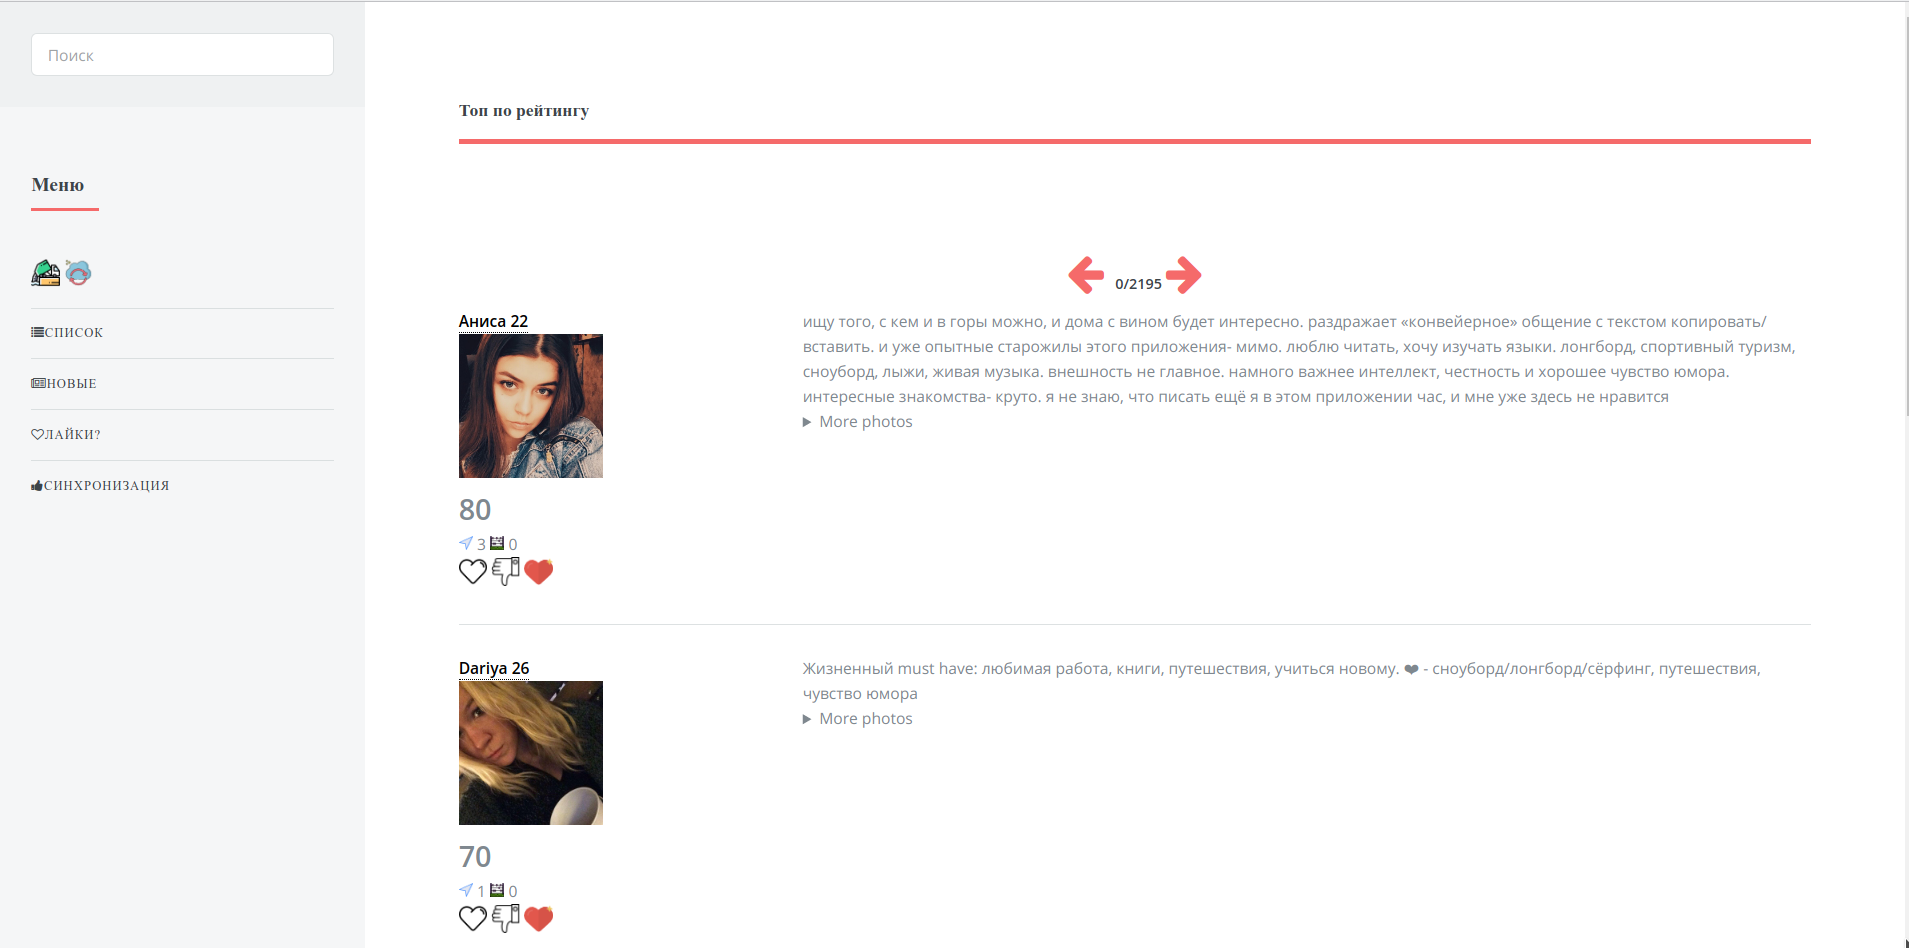
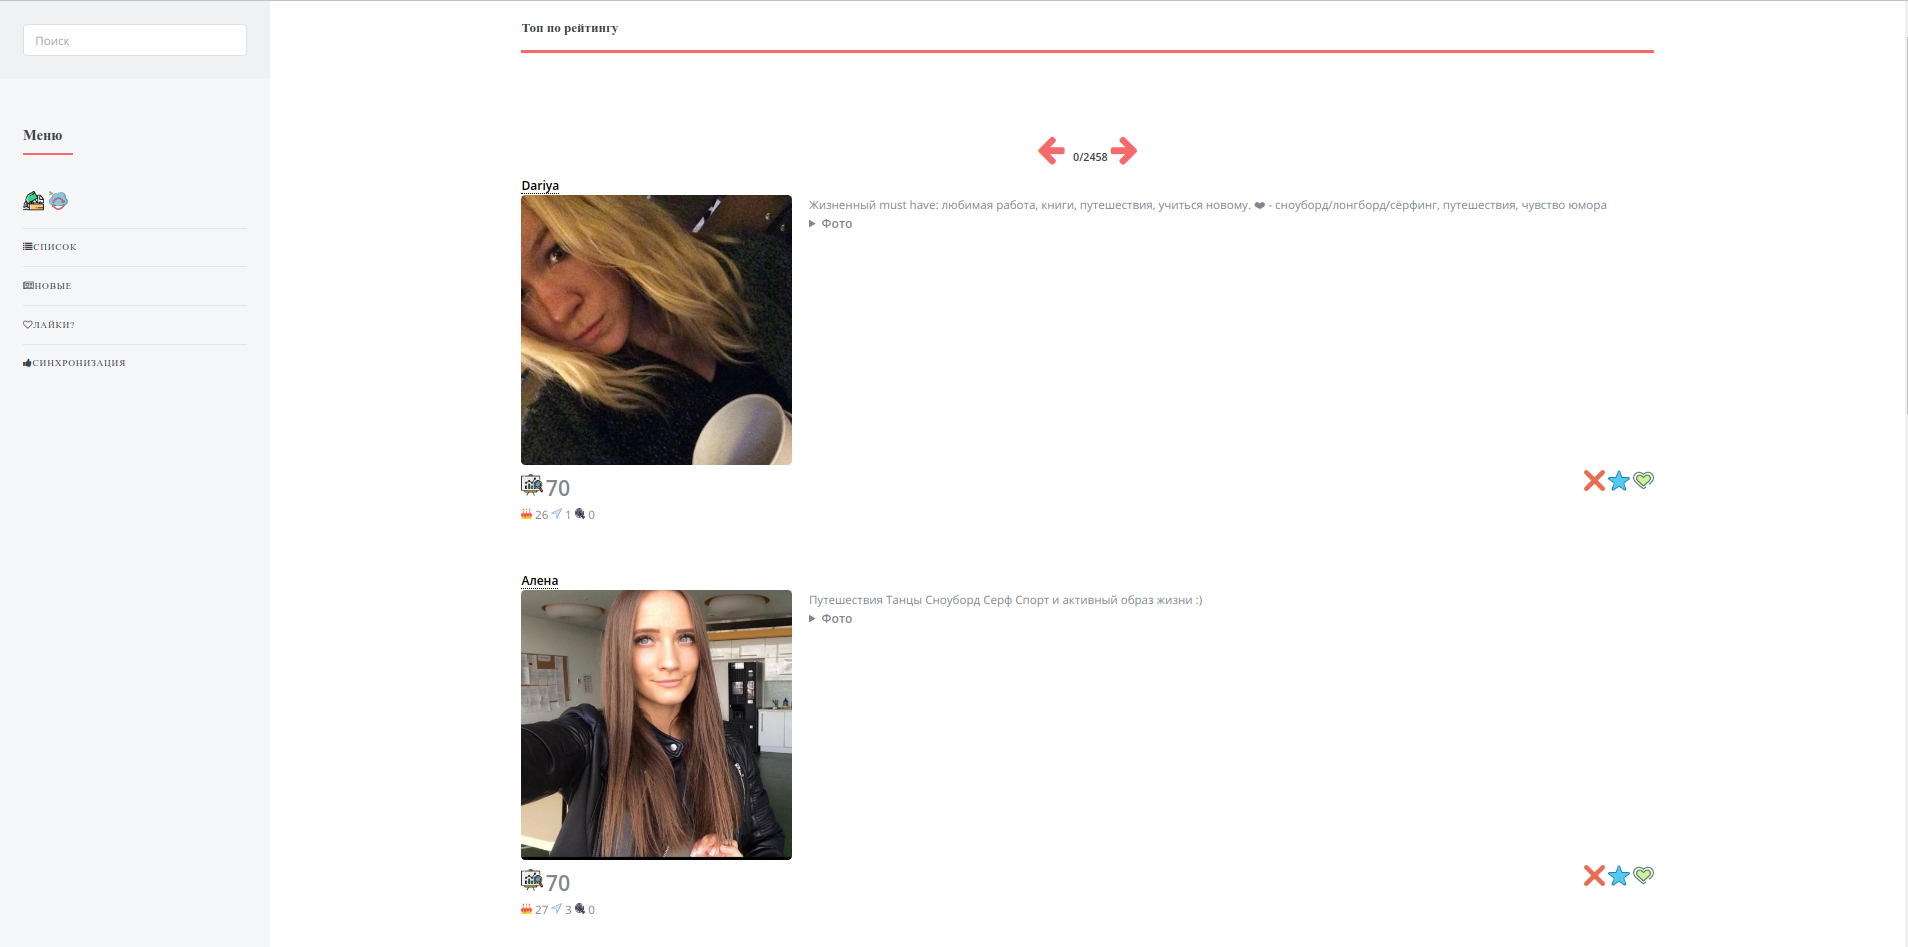
description

diff --git a/src/main/resources/templates/fragments/userlist.html b/src/main/resources/templates/fragments/userlist.html
@@ -41,85 +41,90 @@
         <!--/* Workaround for bug https://youtrack.jetbrains.com/issue/IDEA-132738 -->
         <!--@thymesVar id="u" type="ru.gotinder.crawler.persistence.dto.CrawlerDataDTO"-->
         <!--*/-->
-        <div>
-            <a
-                    style="font-size: large"
-                    th:classappend="
+        <div th:id="${'user-row-container-' + u.getId()}">
+
+
+            <div>
+                <a
+                        style="font-size: large"
+                        th:classappend="
                         ${
                             (u.getVerdict() == T(ru.gotinder.crawler.persistence.dto.VerdictEnum).UNDEFINED ? 'undefined-verdict': '') +
                             (u.getVerdict() == T(ru.gotinder.crawler.persistence.dto.VerdictEnum).SUPERLIKE ? 'superliked' : '') +
                             (u.getVerdict() == T(ru.gotinder.crawler.persistence.dto.VerdictEnum).LIKE ? 'liked' : '') +
                             (u.getVerdict() == T(ru.gotinder.crawler.persistence.dto.VerdictEnum).PASS ? 'disliked' : '')
                         }"
-                    th:href="@{'/user/'+${u.getId()}}"
-                    th:text="${u.getName()}">
-            </a>
-        </div>
-
-        <div class="row" th:id="${'user-row-container-' + u.getId()}">
-            <div class="col-3">
-                <img class="image" th:src="${u.getPhoto().get(0)}"/>
+                        th:href="@{'/user/'+${u.getId()}}"
+                        th:text="${u.getName()}">
+                </a>
             </div>
-            <div class="col-9">
-                <span th:text="${u.getBio()}"></span>
-                <details class="clickable-element" style="font-weight: 900; font-size: 18px">
-                    <summary>Фото</summary>
-                    <div th:each="photo : ${u.getPhoto()}">
-                        <img th:src="${photo}" style="max-height: 600px; max-width: 400px;">
-                    </div>
-                </details>
-            </div>
-        </div>
 
-        <div class="row">
-            <div class="col-3">
-                <div>
+            <div class="row">
+                <div class="col-3">
+                    <img class="image" th:src="${u.getPhoto().get(0)}"/>
+                </div>
+                <div class="col-9">
+                    <span th:text="${u.getBio()}"></span>
+                    <details class="clickable-element" style="font-weight: 900; font-size: 18px">
+                        <summary>Фото</summary>
+                        <div th:each="photo : ${u.getPhoto()}">
+                            <img style="max-height: 600px; max-width: 400px;" th:src="${photo}">
+                        </div>
+                    </details>
+                </div>
+            </div>
+
+            <div class="row">
+                <div class="col-3">
+                    <div>
                     <span>
                         <img alt="rating" src="/img/analysis.png" title="Рейтинг"/>
                         <span style="font-size: 32px; font-weight: bold" th:text="${u.getRating()}"></span>
                     </span>
-                </div>
-                <div>
+                    </div>
+                    <div>
                     <span>
                          <img alt="years" src="/img/birthday-cake.png" title="Возраст"/>
                         <span th:text="${(T(java.time.LocalDateTime).now().getYear() - u.getBirthday().getYear())}"></span>
                     </span>
-                    <span>
+                        <span>
                         <img alt="dst" src="/img/compass.png" title="Расстояние"/>
                         <span th:text="${u.getDistance()}"></span>
                     </span>
-                    <span>
-                         <img alt="recs-duplicate" src="/img/dart.png" title="Кол-во возаратов"/>
+                        <span>
+                         <img alt="recs-duplicate" src="/img/dart.png" title="Тиндер рекомендует"/>
                         <span th:text="${u.getRecsDuplicateCount()}"></span>
                     </span>
-
+                    </div>
                 </div>
-            </div>
-            <div class="col-9">
+                <div class="col-9">
                  <span style="float:right">
-                   <img
-                           alt="like"
-                           class="clickable-element"
-                           onclick="setVerdict(this.getAttribute('data-user-id'),this.getAttribute('data-verdict'))"
-                           src="/img/like.png"
-                           th:data-user-id="${u.getId()}"
-                           th:data-verdict="${T(ru.gotinder.crawler.persistence.dto.VerdictEnum).LIKE.toString()}"/>
-
                 <img
-                        alt="like"
-                        class="clickable-element"
+                        alt="pass"
+                        class="clickable-element circle-animation-img"
+                        src="/img/pass.png"
                         onclick="setVerdict(this.getAttribute('data-user-id'),this.getAttribute('data-verdict'))"
-                        src="/img/dislike.png"
+                        title="Дизлайк"
                         th:data-user-id="${u.getId()}"
                         th:data-verdict="${T(ru.gotinder.crawler.persistence.dto.VerdictEnum).PASS.toString()}"/>
 
                 <img
                         alt="like"
+                        title="Суперлайк"
                         class="clickable-element"
                         onclick="setVerdict(this.getAttribute('data-user-id'),this.getAttribute('data-verdict'))"
                         src="/img/superlike.png"
                         th:data-user-id="${u.getId()}"
                         th:data-verdict="${T(ru.gotinder.crawler.persistence.dto.VerdictEnum).SUPERLIKE.toString()}"/>
+
+               <img
+                       alt="like"
+                       class="clickable-element"
+                       onclick="setVerdict(this.getAttribute('data-user-id'),this.getAttribute('data-verdict'))"
+                       src="/img/like.png"
+                       th:data-user-id="${u.getId()}"
+                       th:data-verdict="${T(ru.gotinder.crawler.persistence.dto.VerdictEnum).LIKE.toString()}"
+                       title="Лайк"/>
 
                 <img class="clickable-element"
                      data-placement="top"
@@ -132,10 +137,10 @@
                      th:if="${u.getVerdict() != T(ru.gotinder.crawler.persistence.dto.VerdictEnum).UNDEFINED}"
                      th:title="'Синхронизировать результат' + '(' + ${u.getVerdict()} + ')'">
                 </span>
+                </div>
             </div>
+            <hr>
         </div>
-
-        <hr>
     </div>
 
     <div th:replace="~{fragments/paging::pagingcontrol}"></div>

diff --git a/src/main/java/ru/gotinder/crawler/service/FacebookGateway.java b/src/main/java/ru/gotinder/crawler/service/FacebookGateway.java
@@ -8,8 +8,10 @@ import org.openqa.selenium.WebDriver;
 import org.openqa.selenium.WebElement;
 import org.openqa.selenium.chrome.ChromeDriver;
 import org.openqa.selenium.chrome.ChromeOptions;
+import org.springframework.beans.factory.annotation.Value;
 import org.springframework.stereotype.Service;
 
+import javax.annotation.PostConstruct;
 import java.time.Duration;
 import java.time.Instant;
 import java.util.regex.Matcher;
@@ -20,8 +22,22 @@ import java.util.regex.Pattern;
 public class FacebookGateway {
     private static Pattern EXTRACT_TOKEN_PATTERN = Pattern.compile("access_token=([\\w\\d]+)");
 
+    @Value("${tinder.crawler.facebook-token-url}")
+    private String tokenUrl;
+
+    @Value("${tinder.crawler.chrome-profile-dir}")
+    private String chromeProfileDir;
+
     private String token;
     private Instant lastTokenTs = null;
+    private ChromeOptions chromeOptions;
+
+    @PostConstruct
+    public void init() {
+        chromeOptions = new ChromeOptions();
+        chromeOptions.addArguments("user-data-dir=" + chromeProfileDir);
+        chromeOptions.addArguments("--start-maximized");
+    }
 
     public synchronized boolean hasToken() {
         return lastTokenTs != null && Duration.between(lastTokenTs, Instant.now()).compareTo(Duration.ofHours(1)) < 0;
@@ -41,16 +57,7 @@ public class FacebookGateway {
 
     @SneakyThrows
     private String obtainFaceBookTokenViaChromeDriver() {
-
-        String profileDir = "/home/mark/.config/google-chrome/selenium";
-        String tokenUrl = "https://www.facebook.com/v2.6/dialog/oauth?redirect_uri=fb464891386855067%3A%2F%2Fauthorize%2F&scope=user_birthday%2Cuser_photos%2Cuser_education_history%2Cemail%2Cuser_relationship_details%2Cuser_friends%2Cuser_work_history%2Cuser_likes&response_type=token%2Csigned_request&client_id=464891386855067";
-
-        System.setProperty("webdriver.chrome.driver", "/home/mark/.bin/chromedriver");
-        ChromeOptions options = new ChromeOptions();
-        options.addArguments("user-data-dir=" + profileDir);
-        options.addArguments("--start-maximized");
-        options.setBinary("/usr/bin/google-chrome");
-        WebDriver driver = new ChromeDriver(options);
+        WebDriver driver = new ChromeDriver(chromeOptions);
         driver.get(tokenUrl);
         try {
             WebElement element = driver.findElement(By.xpath("//*[@id=\"platformDialogForm\"]/div[2]/table/tbody/tr/td[1]/table/tbody/tr/td[2]/button[2]"));
@@ -58,7 +65,7 @@ public class FacebookGateway {
         } catch (NoSuchElementException ex) {
             //TODO: implement login via hard-coded login&password
             log.info("Facebook submit form not found \n" +
-                    "Probably this is your first application run, you need manually login to facebook using selenium profile of google chrome \n" +
+                    "Probably this is your first application run, you need manually login to facebook using special selenium profile of google chrome \n" +
                     "Sign in and restart app");
             Thread.sleep(10000);
         }
@@ -73,8 +80,7 @@ public class FacebookGateway {
         driver.quit();
 
         if (hasToken) {
-            String token = matcher.group(1);
-            return token;
+            return matcher.group(1);
         } else
             return null;
     }

diff --git a/src/main/java/ru/gotinder/crawler/scoring/ScoringModelService.java b/src/main/java/ru/gotinder/crawler/scoring/ScoringModelService.java
@@ -90,7 +90,7 @@ public class ScoringModelService {
         //TODO: Иначе может написать, ненавижу программистов катающихся на велосипеде, а мы большой рейтинг дадим.
         //TODO: А это задача для NLP. А это заниматься нужно, отдельный человек нужен (с)
         //TODO: Тоесть видимо нужно сначала извлечь слова которые нас интересуют? задача NER
-        //TODO: Дальше как-то понять, поощряется ли это в тексте или нет. Видимо тут, на СЗ, если нет негативных модификаторов, считаем что поощряеться
+        //TODO: Дальше как-то понять, поощряется ли это в тексте или нет. Видимо тут, на СЗ, если нет негативных модификаторов, считаем что поощряется
 
         for (Map.Entry<String, Integer> e : KEYWORDS.entrySet()) {
             if (bio.contains(e.getKey())) {

diff --git a/src/main/java/ru/gotinder/crawler/persistence/util/SQLHelper.java b/src/main/java/ru/gotinder/crawler/persistence/util/SQLHelper.java
@@ -19,9 +19,8 @@ public interface SQLHelper {
     String COUNT_BY_RATING = "SELECT count(*) FROM crawler_data WHERE verdict = 0 AND (length(?) = 0 OR bio like '%'|| lower(?) || '%') AND verdict_sync_at is null";
 
     String COUNT_LATEST = "SELECT count(*) from crawler_data WHERE verdict = 0 AND verdict_sync_at is null";
-    String LOAD_LATEST = "select * from crawler_data " +
-            "WHERE verdict = 0 AND verdict_sync_at is null " +
-            "order by date_trunc('day', ts) DESC, rating DESC, ts DESC, length(bio) DESC " +
+    String LOAD_LATEST = "select * from crawler_data WHERE verdict = 0 AND verdict_sync_at is null " +
+            "order by date_trunc('day', GREATEST(ts,updated_at)) DESC, rating DESC,recs_duplicate_count DESC, length(bio) DESC " +
             "LIMIT ? OFFSET ?";
 
     String LOAD_VERDICTED_BUT_NOT_SYNCED = "SELECT * FROM crawler_data WHERE verdict <> 0 AND verdict_sync_at is null ORDER BY verdict DESC LIMIT ? OFFSET ?";

diff --git a/src/main/java/ru/gotinder/crawler/persistence/CrawlerDAO.java b/src/main/java/ru/gotinder/crawler/persistence/CrawlerDAO.java
@@ -20,6 +20,7 @@ import java.util.stream.Stream;
 
 import static ru.gotinder.crawler.persistence.util.SQLHelper.SET_VERDICT_SYNC_TIME;
 
+//TODO: Spring Data + Specifications API
 @Service
 public class CrawlerDAO {
     @Autowired

diff --git a/src/main/java/ru/gotinder/crawler/NLPExample.java b/src/main/java/ru/gotinder/crawler/NLPExample.java
@@ -27,7 +27,7 @@ import java.util.Properties;
  */
 
 @Slf4j
-public class NLP {
+public class NLPExample {
     // https://github.com/MANASLU8/CoreNLP
 
 

diff --git a/src/main/java/ru/gotinder/crawler/Main.java b/src/main/java/ru/gotinder/crawler/Main.java
@@ -21,6 +21,5 @@ public class Main implements CommandLineRunner {
 
     @Override
     public void run(String... args) throws Exception {
-
     }
 }

diff --git a/README.md b/README.md
@@ -1,9 +1,23 @@
-# Useful links
+# Tinder crawler
 
 ![](etc/screenv2.png)
 
-https://github.com/0x13a/tinder-api
+This project allow to sort your tinder recomendations based on [simple keyword scoring model](/src/main/java/ru/gotinder/crawler/scoring/ScoringModelService.java)
 
-https://gist.github.com/taseppa/66fc7239c66ef285ecb28b400b556938
+No more recomendations with empty bio!
 
-https://www.facebook.com/v2.6/dialog/oauth?redirect_uri=fb464891386855067%3A%2F%2Fauthorize%2F&scope=user_birthday%2Cuser_photos%2Cuser_education_history%2Cemail%2Cuser_relationship_details%2Cuser_friends%2Cuser_work_history%2Cuser_likes&response_type=token%2Csigned_request&client_id=464891386855067
+### How it works: 
+
+1. Pull tinder recomendations (+ store in [postgresql database](/sql/schema.sql))
+
+2. Apply scoring model
+
+3. Show results via web gui (top by rating,latest data,search,possible likes)
+
+4. You can like/pass/superlike from gui and sync results with tinder backend.
+
+I inspired to wrote this code after thinking about best strategy of use tinder's free superlike per day. 
+Look for similar math problem - [Secretary problem](https://en.wikipedia.org/wiki/Secretary_problem)
+
+### Dependencies
+[tinder-api](https://github.com/mark-dev/tinder-api)
